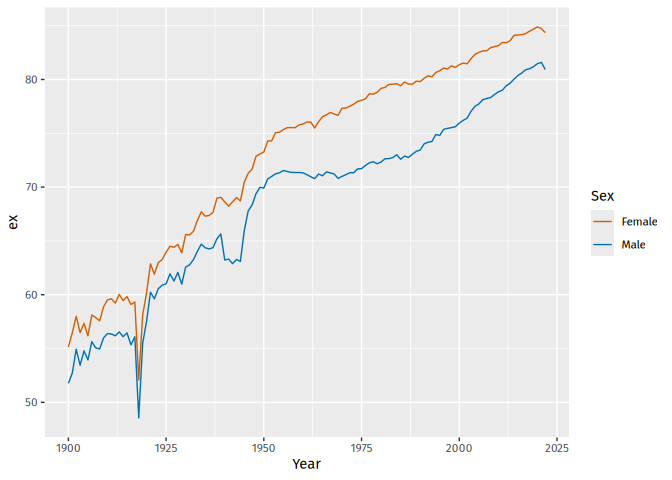
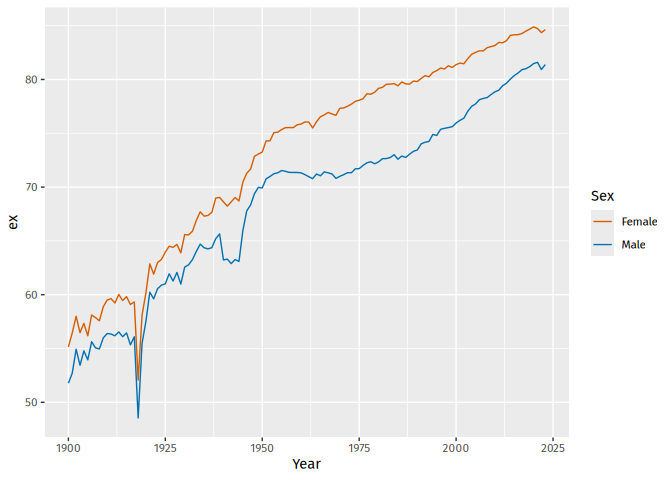
Regenerated readme with updated data

diff --git a/README.md b/README.md
@@ -60,8 +60,8 @@ index_var(norway_mortality)
 key_vars(norway_mortality)
 #> [1] "Age" "Sex"
 vital_vars(norway_mortality)
-#>          age          sex   population 
-#>        "Age"        "Sex" "Population"
+#>          age          sex       deaths   population 
+#>        "Age"        "Sex"     "Deaths" "Population"
 ```
 
 ### Plots
@@ -89,7 +89,7 @@ norway_mortality |>
 #>  2  2000     1 Male  5.93e-4 5.93e-4 0.996 5.90e-4 0.995  75.0  75.3 0.999     1
 #>  3  2000     2 Male  2.29e-4 2.29e-4 0.995 2.28e-4 0.995  74.0  74.3 1.000     1
 #>  4  2000     3 Male  1.57e-4 1.57e-4 0.995 1.56e-4 0.995  73.0  73.3 1.000     1
-#>  5  2000     4 Male  2.21e-4 2.21e-4 0.995 2.20e-4 0.995  72.0  72.4 1.000     1
+#>  5  2000     4 Male  2.21e-4 2.21e-4 0.995 2.20e-4 0.995  72.0  72.3 1.000     1
 #>  6  2000     5 Male  1.89e-4 1.89e-4 0.995 1.88e-4 0.994  71.0  71.4 1.000     1
 #>  7  2000     6 Male  1.28e-4 1.28e-4 0.994 1.27e-4 0.994  70.0  70.4 1.000     1
 #>  8  2000     7 Male  1.27e-4 1.27e-4 0.994 1.26e-4 0.994  69.0  69.4 1.000     1
@@ -125,8 +125,6 @@ norway_mortality |>
   geom_line(aes(y = .smooth), col = "#0072B2") +
   ylab("Mortality rate") +
   scale_y_log10()
-#> Warning: Removed 1 row containing missing values or values outside the scale range
-#> (`geom_line()`).
 ```
 
 <img src="man/figures/README-smoothing-1.png" width="100%" />
@@ -172,27 +170,27 @@ fit |>
 #> # A tibble: 101 × 3
 #>     Age    ax     bx
 #>   <int> <dbl>  <dbl>
-#> 1     0 -4.32 0.0154
-#> 2     1 -6.15 0.0224
-#> 3     2 -6.76 0.0192
-#> 4     3 -7.13 0.0187
-#> 5     4 -7.16 0.0164
+#> 1     0 -4.33 0.0155
+#> 2     1 -6.16 0.0223
+#> 3     2 -6.77 0.0193
+#> 4     3 -7.14 0.0187
+#> 5     4 -7.18 0.0165
 #> # ℹ 96 more rows
 #> 
 #> Time coefficients
-#> # A tsibble: 123 x 2 [1Y]
+#> # A tsibble: 124 x 2 [1Y]
 #>    Year    kt
 #>   <int> <dbl>
 #> 1  1900  115.
 #> 2  1901  109.
-#> 3  1902  107.
-#> 4  1903  113.
-#> 5  1904  111.
-#> # ℹ 118 more rows
+#> 3  1902  103.
+#> 4  1903  109.
+#> 5  1904  106.
+#> # ℹ 119 more rows
 #> 
 #> Time series model: RW w/ drift 
 #> 
-#> Variance explained: 66.95%
+#> Variance explained: 66.33%
 ```
 
 ``` r
@@ -210,53 +208,53 @@ fit |>
 #> # A tibble: 202 × 4
 #>    Sex      Age    ax     bx
 #>    <chr>  <int> <dbl>  <dbl>
-#>  1 Female     0 -4.32 0.0154
-#>  2 Female     1 -6.15 0.0224
-#>  3 Female     2 -6.76 0.0192
-#>  4 Female     3 -7.13 0.0187
-#>  5 Female     4 -7.16 0.0164
-#>  6 Female     5 -7.40 0.0174
-#>  7 Female     6 -7.43 0.0165
-#>  8 Female     7 -7.46 0.0153
-#>  9 Female     8 -7.36 0.0124
-#> 10 Female     9 -7.37 0.0123
+#>  1 Female     0 -4.33 0.0155
+#>  2 Female     1 -6.16 0.0223
+#>  3 Female     2 -6.77 0.0193
+#>  4 Female     3 -7.14 0.0187
+#>  5 Female     4 -7.18 0.0165
+#>  6 Female     5 -7.41 0.0174
+#>  7 Female     6 -7.45 0.0165
+#>  8 Female     7 -7.48 0.0155
+#>  9 Female     8 -7.37 0.0125
+#> 10 Female     9 -7.39 0.0124
 #> # ℹ 192 more rows
 fit |>
   select(lee_carter) |>
   time_components()
-#> # A tsibble: 246 x 3 [1Y]
+#> # A tsibble: 248 x 3 [1Y]
 #> # Key:       Sex [2]
 #>    Sex     Year    kt
 #>    <chr>  <int> <dbl>
-#>  1 Female  1900  115.
-#>  2 Female  1901  109.
-#>  3 Female  1902  107.
-#>  4 Female  1903  113.
-#>  5 Female  1904  111.
-#>  6 Female  1905  114.
-#>  7 Female  1906  110.
-#>  8 Female  1907  111.
-#>  9 Female  1908  109.
-#> 10 Female  1909  103.
-#> # ℹ 236 more rows
+#>  1 Female  1900 115. 
+#>  2 Female  1901 109. 
+#>  3 Female  1902 103. 
+#>  4 Female  1903 109. 
+#>  5 Female  1904 106. 
+#>  6 Female  1905 110. 
+#>  7 Female  1906 101. 
+#>  8 Female  1907 106. 
+#>  9 Female  1908 105. 
+#> 10 Female  1909  99.6
+#> # ℹ 238 more rows
 ```
 
 ``` r
 fit |> forecast(h = 20)
 #> # A vital fable: 8,080 x 6 [1Y]
 #> # Key:           Age x (Sex, .model) [101 x 4]
-#>    Sex    .model      Year   Age         Mortality   .mean
-#>    <chr>  <chr>      <dbl> <int>            <dist>   <dbl>
-#>  1 Female lee_carter  2023     0 t(N(-5.2, 0.033)) 0.00560
-#>  2 Female lee_carter  2024     0 t(N(-5.2, 0.066)) 0.00557
-#>  3 Female lee_carter  2025     0 t(N(-5.2, 0.099)) 0.00554
-#>  4 Female lee_carter  2026     0  t(N(-5.3, 0.13)) 0.00551
-#>  5 Female lee_carter  2027     0  t(N(-5.3, 0.17)) 0.00548
-#>  6 Female lee_carter  2028     0   t(N(-5.3, 0.2)) 0.00545
-#>  7 Female lee_carter  2029     0  t(N(-5.3, 0.24)) 0.00542
-#>  8 Female lee_carter  2030     0  t(N(-5.4, 0.28)) 0.00539
-#>  9 Female lee_carter  2031     0  t(N(-5.4, 0.31)) 0.00536
-#> 10 Female lee_carter  2032     0  t(N(-5.4, 0.35)) 0.00533
+#>    Sex    .model      Year   Age          Mortality    .mean
+#>    <chr>  <chr>      <dbl> <int>             <dist>    <dbl>
+#>  1 Female lee_carter  2024     0 t(N(-6.8, 0.0088)) 0.00110 
+#>  2 Female lee_carter  2025     0  t(N(-6.9, 0.018)) 0.00106 
+#>  3 Female lee_carter  2026     0  t(N(-6.9, 0.027)) 0.00103 
+#>  4 Female lee_carter  2027     0  t(N(-6.9, 0.036)) 0.00100 
+#>  5 Female lee_carter  2028     0    t(N(-7, 0.045)) 0.000972
+#>  6 Female lee_carter  2029     0    t(N(-7, 0.055)) 0.000944
+#>  7 Female lee_carter  2030     0    t(N(-7, 0.064)) 0.000916
+#>  8 Female lee_carter  2031     0  t(N(-7.1, 0.074)) 0.000889
+#>  9 Female lee_carter  2032     0  t(N(-7.1, 0.084)) 0.000863
+#> 10 Female lee_carter  2033     0  t(N(-7.1, 0.094)) 0.000838
 #> # ℹ 8,070 more rows
 ```
 
